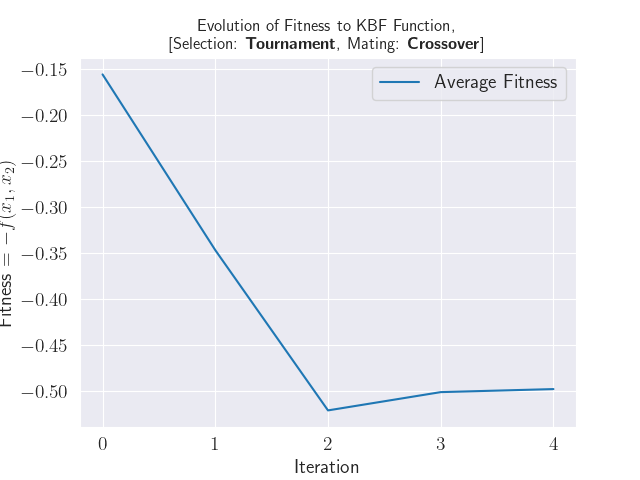
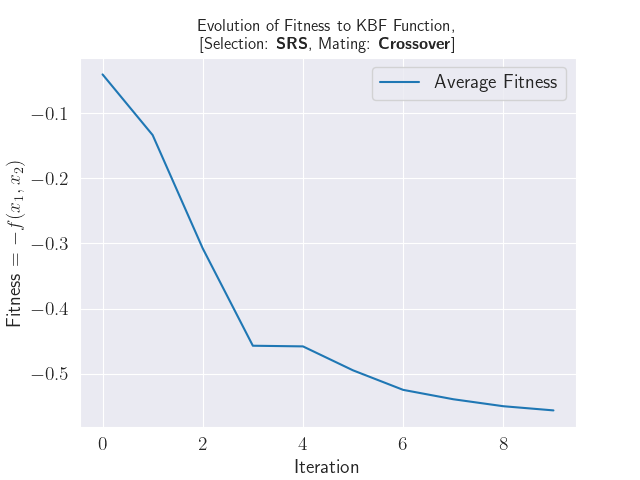
Got selection working too!

diff --git a/main.py b/main.py
@@ -8,21 +8,24 @@ import numpy as np
 import matplotlib.pyplot as plt
 from tqdm import tqdm
 
+# Hyperparameters
 X_RANGE=(0,10)
-FUNCTION = Rosenbrock_function
+FUNCTION = KBF_function
 POPULATION_SIZE = 250
 CHROMOSOME_LENGTH = 2
 MUTATION_RATE = 0.05
-CROSSOVER_RATE = 0.7
-SELECTION_METHOD = 'Tournament' # 'Proportional', 'Tournament', 'SRS'
+CROSSOVER_RATE = 0.8
+SELECTION_METHOD = 'SRS' # 'Proportional', 'Tournament', 'SRS'
 MATING_PROCEDURE = 'Crossover' # 'Crossover', 'Blending'
-NUM_ITERS = 5
+NUM_ITERS = 10
 
 NAME = 'Rosenbrock' if FUNCTION == Rosenbrock_function else 'KBF'
 
+# 2D Visualisation
 X1, X2, f = evaluate_2D(FUNCTION, x_range=X_RANGE)
 plot_2D(X1, X2, f, name=NAME, x_range=X_RANGE)
 
+# Instantiate CGA
 CGA = ContinousGeneticAlgorithm(
     population_size=POPULATION_SIZE,
     chromosome_length=CHROMOSOME_LENGTH,
@@ -34,27 +37,30 @@ CGA = ContinousGeneticAlgorithm(
     mating_procedure=MATING_PROCEDURE,
 )
 
+# Evaluate initial population
 CGA.evaluate_fitness()
 
+# Make a grid of plots to show evolution of population
 PLOT_EVERY = NUM_ITERS // 5
 num_plots = (NUM_ITERS // PLOT_EVERY)
-
-# Create a figure with subplots
 fig, axs = plt.subplots(1, num_plots, figsize=(20, 5))
 fig.suptitle("Evolution of Population, \n" + r"[Selection: \textbf{" + SELECTION_METHOD + r"}, Mating: \textbf{" + MATING_PROCEDURE +  "}]", fontsize=22)
 
-# Plot grid of grey contours which will be overlayed with population
+# Plot grey contours of function on each subplot in grid
+# This will be overlayed with populations at different iterations
 for idx in range(num_plots):
     plot_grey_contour(X1, X2, f, plot=axs[idx], x_range=X_RANGE)
 
+# Initialise arrays to store fitness values
 avg_fitness = np.zeros(NUM_ITERS)
 min_fitness = np.zeros(NUM_ITERS)
 
+# tqdm bar
 tqdm_iter = tqdm(range(NUM_ITERS))
 
 for iter in tqdm_iter:
 
-    # Overlay population on grey contour
+    # Overlay population on grey contour every "PLOT_EVERY" iterations
     if iter % PLOT_EVERY == 0:
         plot_num = (iter // PLOT_EVERY)
         idx = plot_num % num_plots
@@ -73,9 +79,9 @@ for iter in tqdm_iter:
     tqdm_iter.set_description(f"Average Fitness: {avg_fitness[iter]:.2f}, Minimum Fitness: {min_fitness[iter]:.2f}")
 
 plt.tight_layout()
-plt.savefig(f'figures/{NAME}.png')
+plt.savefig(f'figures/{NAME} Evolution.png')
 
-# Plot fitness evolution
+# Plot fitness evolution with iteration
 plot_fitness(avg_fitness, min_fitness, name=NAME, type=(SELECTION_METHOD, MATING_PROCEDURE))
 
 

diff --git a/src/algorithms/CGA/selection_functions.py b/src/algorithms/CGA/selection_functions.py
@@ -42,22 +42,32 @@ def tournament_selection(GCA):
             return parent2, parent1
         
 def SRS_selection(GCA):
-        """
-        Stochastic Remainder Selection without Replacement (SRS) of parents. 
+    """
+    Stochastic Remainder Selection without Replacement (SRS) of parents. 
 
-        Args:
-        - GCA (CGA): Continuous Genetic Algorithm object passed into this function using self.select_parents(self)
+    Args:
+    - GCA (CGA): Continuous Genetic Algorithm object passed into this function using self.select_parents(self)
 
-        Returns:
-        - parent1 (int): Index of first parent
-        - parent2 (int): Index of second parent
-        """
+    Returns:
+    - parent1 (int): Index of first parent
+    - parent2 (int): Index of second parent
+    """
 
-        # Avoid duplicate code -- use proportional selection to select parents
-        parent1, parent2 = proportional_selection(GCA)
+    # Calculate probabilities
+    probabilities = GCA.fitness / np.sum(GCA.fitness)
 
-        # Remove selected parents from population
-        GCA.population = np.delete(GCA.population, [parent1, parent2], axis=0)
-        GCA.fitness = np.delete(GCA.fitness, [parent1, parent2], axis=0)
+    # Select the first parent based on probabilities
+    parent1 = np.random.choice(GCA.population_size, p=probabilities)
 
-        return parent1, parent2
+    # Update probabilities after selecting the first parent
+    updated_probabilities = np.delete(probabilities, parent1)
+    updated_probabilities /= np.sum(updated_probabilities)
+
+    # Select the second parent based on updated probabilities
+    parent2 = np.random.choice(GCA.population_size - 1, p=updated_probabilities)
+
+    # Adjust the index of parent2 to account for the removed element
+    parent2 = parent2 + 1 if parent2 >= parent1 else parent2
+
+    return parent1, parent2
+

diff --git a/src/algorithms/CGA/CGA.py b/src/algorithms/CGA/CGA.py
@@ -1,7 +1,7 @@
 import numpy as np
 import sys; sys.path.append('..')
 
-# Import functions from other files
+# Import selection and mating functions from directory files
 from src.algorithms.CGA.selection_functions import proportional_selection, tournament_selection, SRS_selection
 from src.algorithms.CGA.mating_functions import crossover, blending
 
@@ -26,11 +26,12 @@ class ContinousGeneticAlgorithm():
         """
         self.population_size = population_size 
         self.chromosome_length = chromosome_length # n in R^n, dimension of the search space
+        self.func = objective_function
         self.lb = range[0] 
         self.ub = range[1] 
         self.mutation_rate = mutation_rate  
         self.crossover_rate = crossover_rate
-        self.func = objective_function # Objective function to optimise
+        
 
         # Dictionaries to map string to function call. Function imported from directory files
         selection_mapping = {'Proportional': proportional_selection, 
@@ -112,7 +113,8 @@ class ContinousGeneticAlgorithm():
         """
         Evolve population for one generation.
         """
+        self.evaluate_fitness() 
         offspring = self.mate()
         self.population = offspring
         self.mutate()
-        self.evaluate_fitness() 
+        

diff --git a/src/algorithms/CGA/mating_functions.py b/src/algorithms/CGA/mating_functions.py
@@ -10,9 +10,8 @@ def crossover(CGA):
     # Iterate through population
     for i in range(CGA.population_size):
 
-        # Breed from the fittest 10% of individuals, the rest will go extinct
-        parent1 = CGA.parent_rankings[np.random.randint(CGA.population_size//10)]
-        parent2 = CGA.parent_rankings[np.random.randint(CGA.population_size//10)]
+        # Select parents
+        parent1, parent2 = CGA.select_parents()
 
         # Iterate through all the genes of an individual/chromosome
         for j in range(CGA.chromosome_length):
@@ -36,9 +35,8 @@ def blending(CGA):
     # Iterate through population
     for i in range(CGA.population_size):
 
-        # Breed from the fittest 10% of individuals, the rest will go extinct
-        parent1 = CGA.parent_rankings[np.random.randint(CGA.population_size//10)]
-        parent2 = CGA.parent_rankings[np.random.randint(CGA.population_size//10)]
+        # Select parents
+        parent1, parent2 = CGA.select_parents()
         
         # Iterate through all the genes of an individual/chromosome
         for j in range(CGA.chromosome_length):
